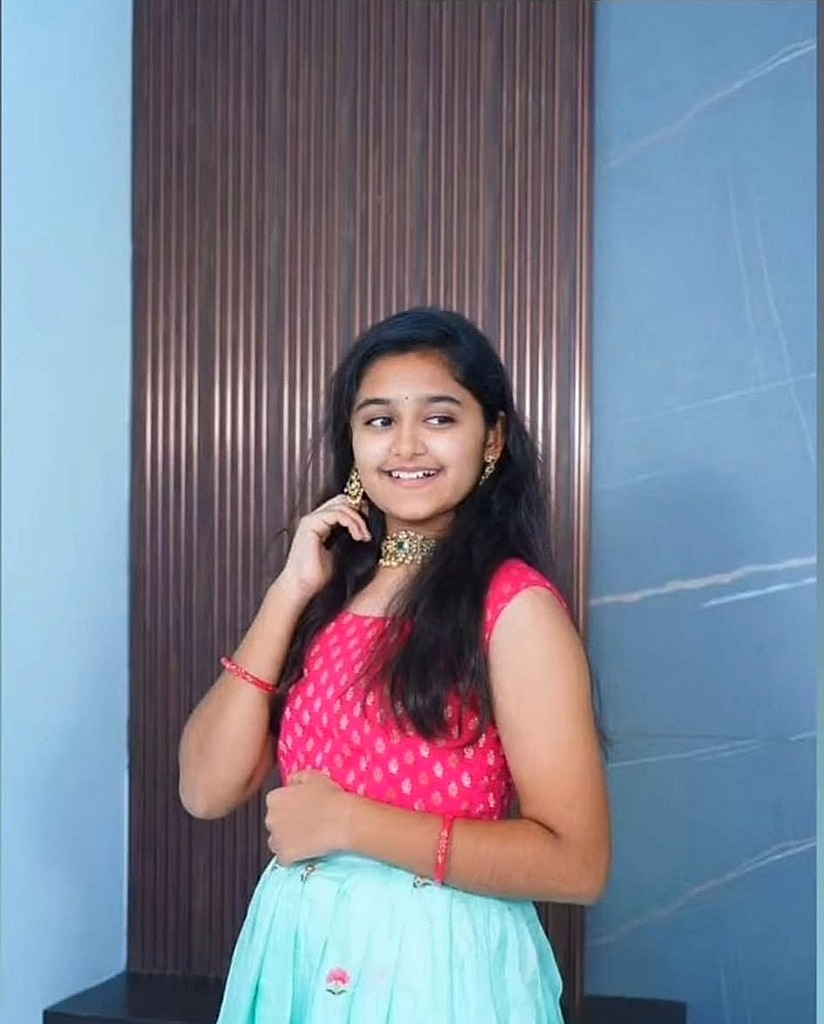
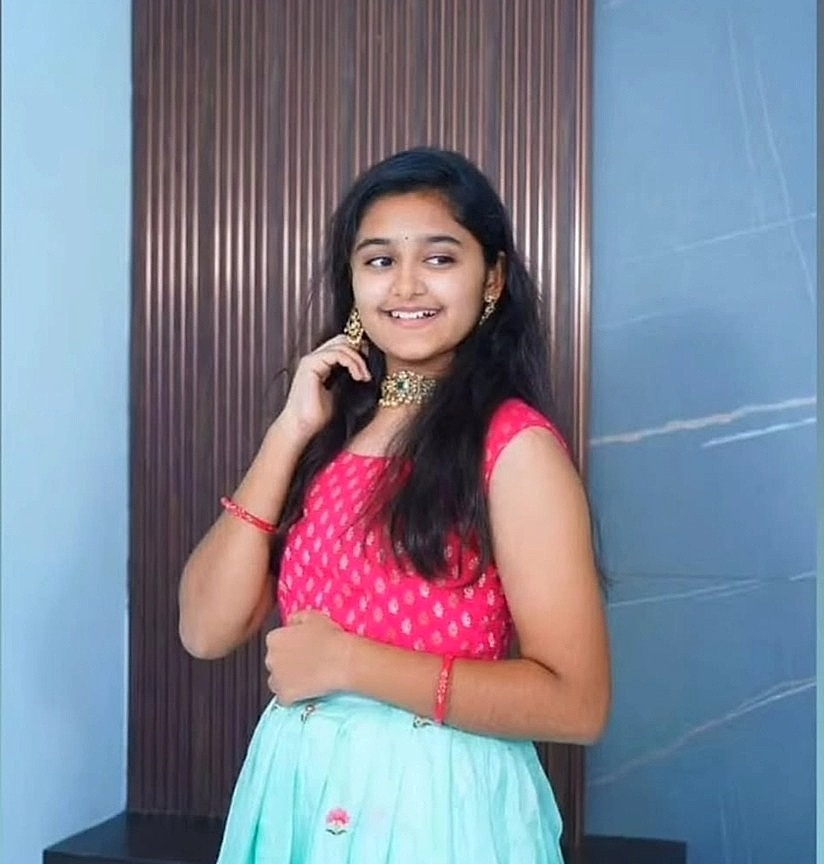
Add files via upload

diff --git a/style.css b/style.css
@@ -289,6 +289,7 @@ body {
   width: 100%;
   height: 380px;
   object-fit: cover;
+  object-position: center 15%;
   border-radius: 20px;
   display: block;
 }
@@ -351,6 +352,7 @@ body {
   width: 100%;
   height: 155px;
   object-fit: cover;
+  object-position: top center;
   border-radius: 6px;
   display: block;
 }
@@ -528,6 +530,7 @@ body {
   width: 100%;
   height: 360px;
   object-fit: cover;
+  object-position: center 25%;
   border-radius: 8px;
   display: block;
 }
@@ -575,6 +578,7 @@ body {
   width: 100%;
   height: 210px;
   object-fit: cover;
+  object-position: center 15%;
   border-radius: 6px;
   display: block;
 }
@@ -761,6 +765,7 @@ body {
   width: 100%;
   height: 460px;
   object-fit: cover;
+  object-position: center 25%;
   border-radius: 12px;
   display: block;
 }
